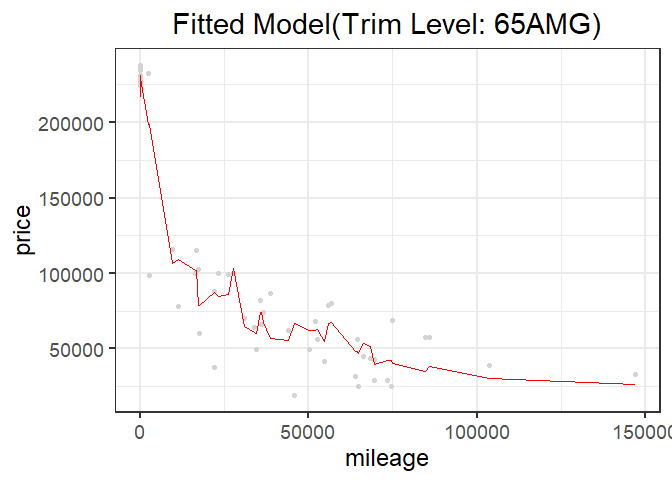
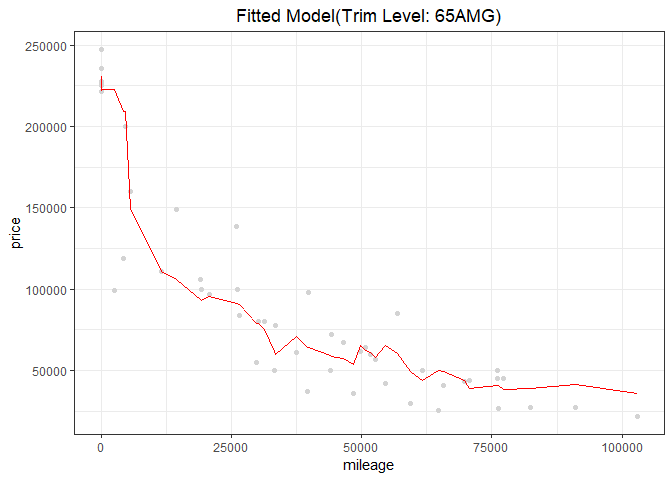
Testing 8

diff --git a/HW1/Report/Exercise_1_Report.md b/HW1/Report/Exercise_1_Report.md
@@ -22,9 +22,11 @@ We splited the data into a training and a testing set. There are 80% of the data
 
 The optimal K for trim level 350 is printed below:
 
-    ## [1] 14
+    ## [1] 22
 
 Since the traning set is chosen randomly, if we run the KNN for several times, we will get different result. But generally, we can get the optimal K for trim level 350 is about 19. Then for the optimal value of K in this one running, a plot of the fitted modelis shown below:
+
+    ## [1] 9637.687
 
 <img src="Exercise_1_Report_files/figure-markdown_github/s350p_optimalplot-1.png" style="display: block; margin: auto;" />
 
@@ -36,10 +38,10 @@ We splited the data into a training and a testing set. There are 80% of the data
 
 The optimal K for trim level 65 AMG is printed below:
 
-    ## [1] 5
+    ## [1] 10
 
 Since the traning set is chosen randomly, if we run the KNN for several times, we will get different result. But generally, we can get the optimal K for trim level 65 AMG is about 16. Then for the optimal value of K in this one running, a plot of the fitted modelis shown below:
 
-    ## [1] 20418.46
+    ## [1] 24631.32
 
 <img src="Exercise_1_Report_files/figure-markdown_github/s65p_optimalplot-1.png" style="display: block; margin: auto;" />
